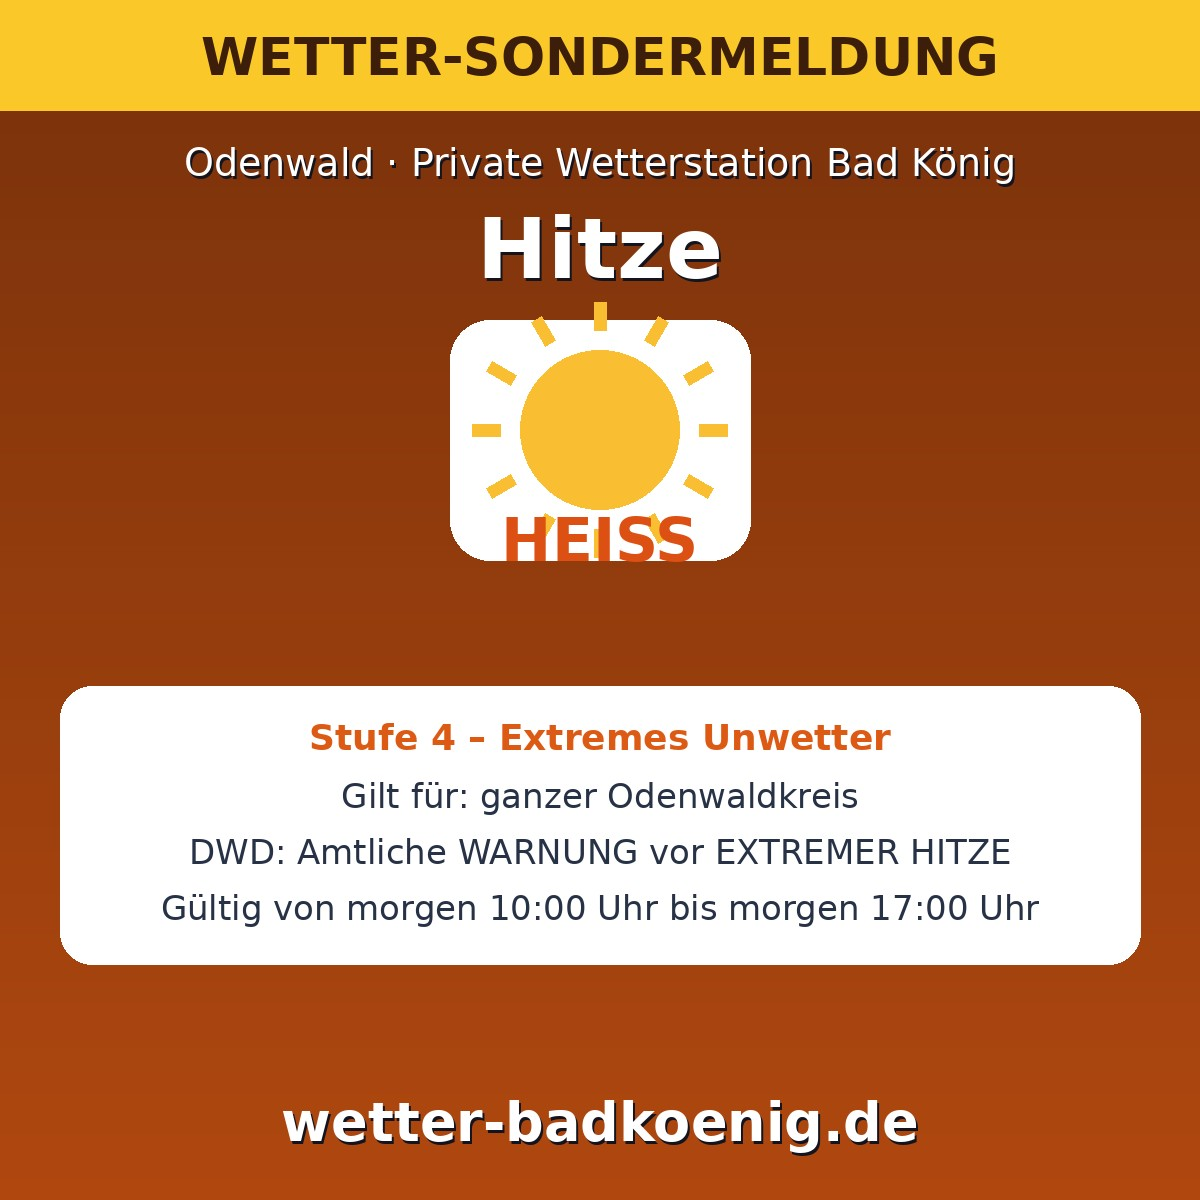
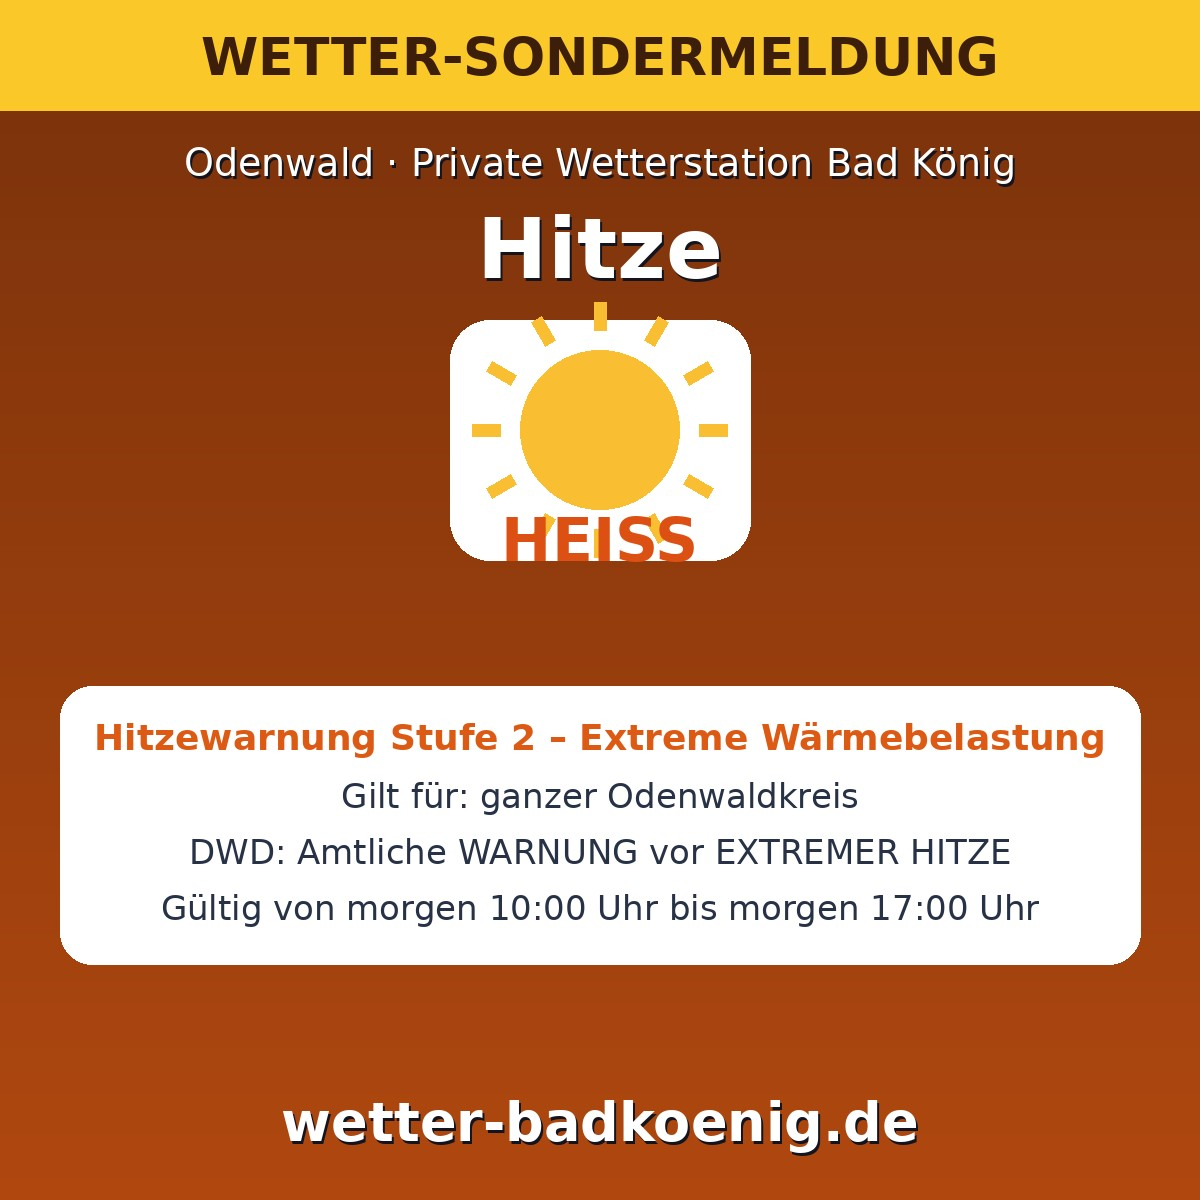
Sondermeldung Hitze: DWD-Hitzewarnstufen (starke/extreme Wärmebelastung)
Claude-Session: https://claude.ai/code/session_01LmP2NChNcVg8Xj5kLyRJno

Changed region(s): [[0.0617, 0.5858, 0.925, 0.6475]]

diff --git a/index.html b/index.html
@@ -1848,7 +1848,7 @@ button { font: inherit; color: inherit; }
     <p class="src">Webcams bereitgestellt von <a href="https://www.windy.com/webcams" target="_blank" rel="noopener">Windy.com</a>. Die Kameras gehören ihren jeweiligen Betreibern; einzelne können zeitweise offline sein.</p>
   </div>
 
-  <p class="foot">Bresser 8-in-1-Wetterstation in Bad König. Werte werden <span id="refreshTxt">regelmäßig</span> neu geladen. Vorhersage und Warnungen: Deutscher Wetterdienst.<br><a href="impressum.html">Impressum</a> · <a href="impressum.html#datenschutz">Datenschutz</a> · <a href="widget.html">🧩 Wetter-Widget für Ihre Website</a> · <a href="https://www.facebook.com/profile.php?id=61596151114564" target="_blank" rel="noopener">📘 Facebook</a> · <a href="https://www.instagram.com/wetterstation_badkoenig/" target="_blank" rel="noopener">📸 Instagram</a><br><span id="visits" class="visits" hidden></span><br><span id="webStand" class="visits">Website-Stand: 14.11.2026, 21:45 Uhr</span></p>
+  <p class="foot">Bresser 8-in-1-Wetterstation in Bad König. Werte werden <span id="refreshTxt">regelmäßig</span> neu geladen. Vorhersage und Warnungen: Deutscher Wetterdienst.<br><a href="impressum.html">Impressum</a> · <a href="impressum.html#datenschutz">Datenschutz</a> · <a href="widget.html">🧩 Wetter-Widget für Ihre Website</a> · <a href="https://www.facebook.com/profile.php?id=61596151114564" target="_blank" rel="noopener">📘 Facebook</a> · <a href="https://www.instagram.com/wetterstation_badkoenig/" target="_blank" rel="noopener">📸 Instagram</a><br><span id="visits" class="visits" hidden></span><br><span id="webStand" class="visits">Website-Stand: 14.11.2026, 21:40 Uhr</span></p>
 
 </div>
 

diff --git a/.github/scripts/sonder.py b/.github/scripts/sonder.py
@@ -72,7 +72,10 @@ def erkennen(alerts, H):
                 if typ == 'frost' and 'STRENG' not in ev: continue      # normaler Frost kommt schon im Tagesbeitrag
                 zeit = None
                 if a.get('onset') and a.get('expires'): zeit = 'Gültig von %s bis %s' % (uhr(a['onset']), uhr(a['expires']))
-                add(typ, 'dwd', ['DWD: ' + (a.get('headline_de') or a.get('event_de'))], zeit, DWD_STUFE.get(a.get('severity')),
+                st = DWD_STUFE.get(a.get('severity'))
+                if typ == 'hitze':   # DWD-Hitzewarnungen haben ein eigenes, zweistufiges System
+                    st = 'Hitzewarnung Stufe 2 – Extreme Wärmebelastung' if 'EXTREM' in ev else 'Hitzewarnung Stufe 1 – Starke Wärmebelastung'
+                add(typ, 'dwd', ['DWD: ' + (a.get('headline_de') or a.get('event_de'))], zeit, st,
                     (a.get('instruction_de') or '').split('\n')[0][:220] or None, a.get('orte'))
                 break                                                   # eine Warnung = eine Meldung
     # 2) Vorhersage der nächsten 24 Stunden
